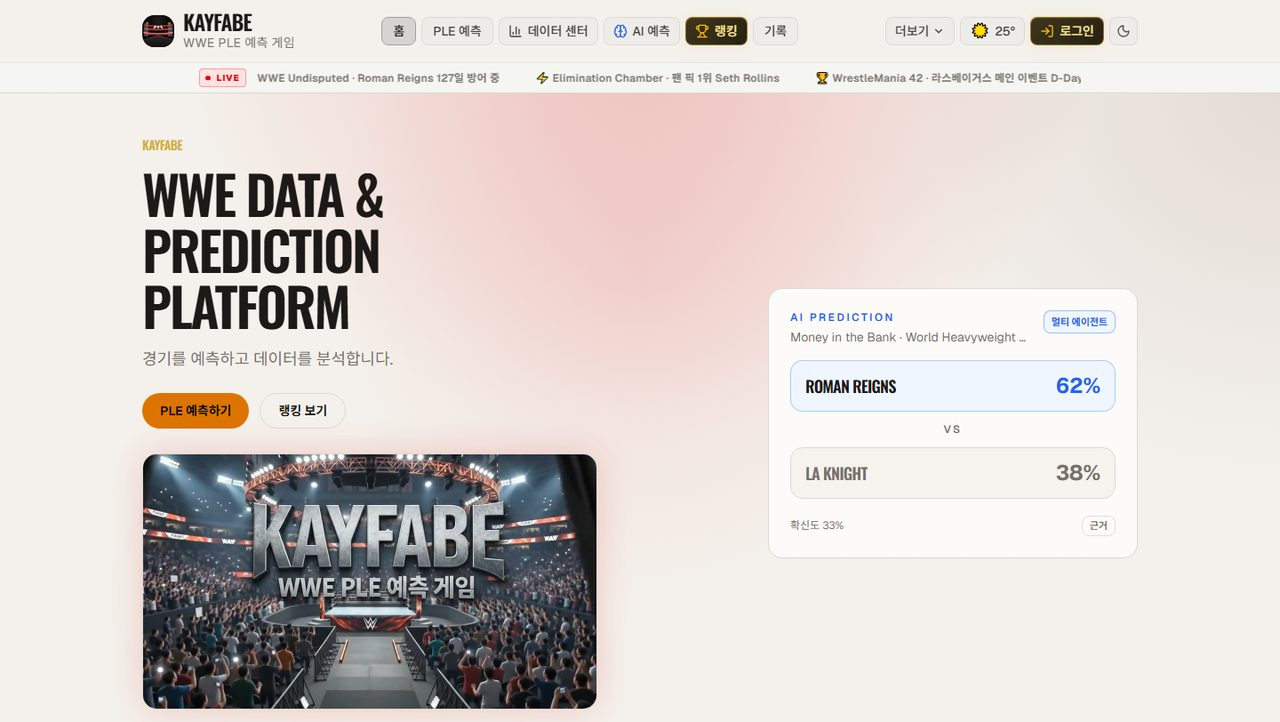
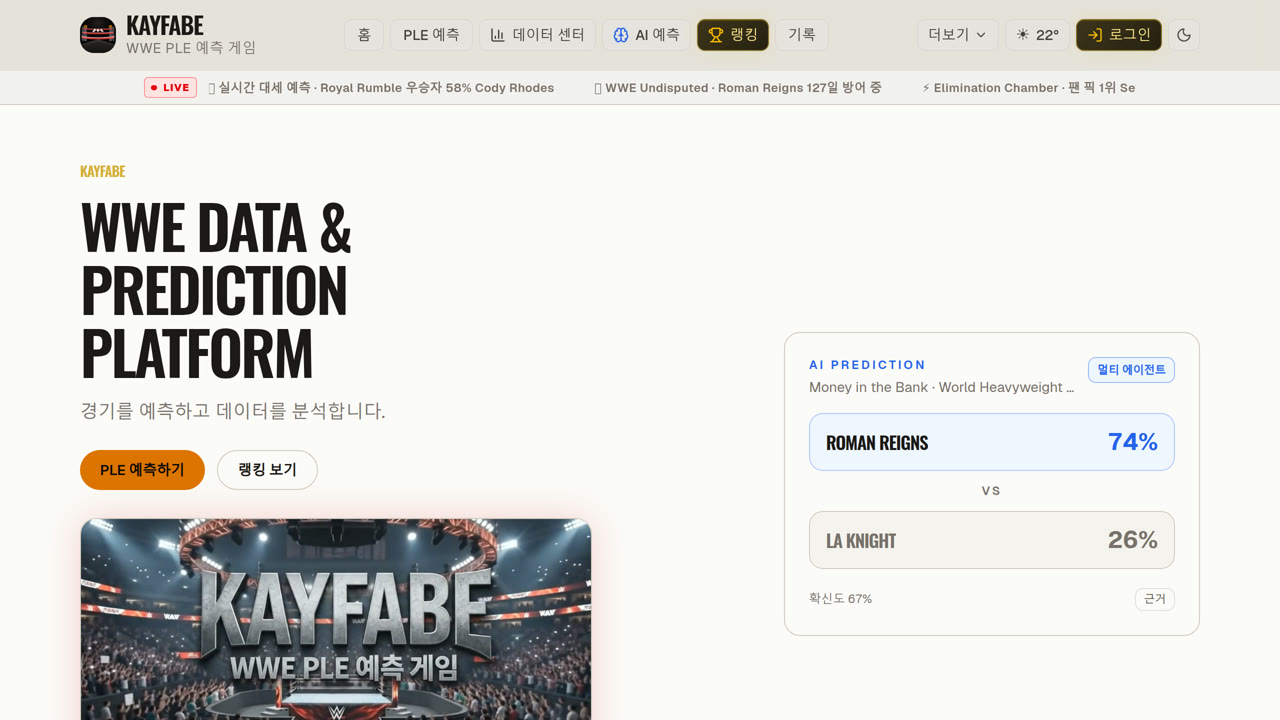
feat: 첫 화면이 이력서와 같은 문장을 말하게 한다
제목을 「만든 것을 데이터로 검증합니다」에서 「모델은 자신 있게 틀립니다」로
바꿨다. 맞는 말이었지만 무엇을 하는 사람인지도, 왜 그 일이 필요한지도
말하지 않았다 — 이력서 지원동기 첫 문단이 쓴 문장을 그대로 세우고, 바로
아래 문단이 「그래서」로 받는다. 이력서와 화면을 같이 보는 사람에게 서로
다른 사람으로 읽히면 안 된다.

검색 결과에 뜨는 설명문도 같은 문장으로 맞췄다. 전에 적혀 있던
「Wiki + LLM 개인 지식 시스템」은 저장소 내부 용어였다.

수치와 썸네일도 다시 실측해 갈았다 — API 핸들러 48 · 테스트 1,349 ·
커밋 422 · 코퍼스 문서 89/청크 1,027. 「라우트 37」은 세는 법이 달랐던
값이라(같은 방법으로 10-06 을 다시 세면 47) 라벨과 측정 방법을 함께 적었다.
빠져 있던 게이트 셋(ruff · import-linter · pre-commit)을 기술 칩에 넣었다.

diff --git a/www/app/page.tsx b/www/app/page.tsx
@@ -77,7 +77,12 @@ const STACK: StackGroup[] = [
       },
       {
         name: "pytest",
-        where: "코드가 망가졌는지 자동으로 확인하는 검사 도구입니다. 1,182건이 매번 돌아갑니다.",
+        where: "코드가 망가졌는지 자동으로 확인하는 검사 도구입니다. 1,349건이 매번 돌아갑니다.",
+      },
+      {
+        name: "ruff",
+        where:
+          "파이썬 코드의 형식과 흔한 실수를 검사하고 자동으로 맞춰 줍니다. 사람마다 다르게 쓰는 걸 막습니다.",
       },
       { name: "Uvicorn", where: "만든 서버를 실제로 띄워 두고 요청을 받게 하는 프로그램입니다." },
       { name: "uv", where: "프로젝트에 필요한 외부 코드들을 받아서 관리합니다." },
@@ -269,6 +274,16 @@ const STACK: StackGroup[] = [
         where:
           "코드를 올릴 때마다 검사와 테스트를 자동으로 돌립니다. 통과 못 하면 올라가지 않습니다.",
       },
+      {
+        name: "import-linter",
+        where:
+          "앱끼리 아무 데나 갖다 쓰지 못하게 의존 방향을 계약으로 검사합니다. 계약 4건이 걸려 있고, 어기면 커밋이 막힙니다.",
+      },
+      {
+        name: "pre-commit",
+        where:
+          "커밋하기 직전에 위 검사들을 한꺼번에 돌립니다. 하나라도 실패하면 커밋 자체가 되지 않습니다.",
+      },
     ],
   },
 ];
@@ -283,7 +298,7 @@ const PROJECTS: PortfolioProject[] = [
     hrefLabel: "흐름도 4장과 설계 결정 — 운영 사이트 링크는 그 안에 있습니다",
     image: "/projects/kayfabe-home.jpg",
     imageAlt: "KAYFABE 메인 화면 — WWE DATA & PREDICTION PLATFORM 히어로와 AI 예측 카드",
-    facts: ["라우트 37개", "테스트 1,283건", "아키텍처 계약 4", "커밋 394"],
+    facts: ["API 핸들러 48개", "테스트 1,349건", "아키텍처 계약 4", "커밋 422"],
   },
   {
     name: "SUPER-SUB",
@@ -341,25 +356,36 @@ export default function PortfolioPage() {
       </header>
 
       {/* ── 소개 ────────────────────────────────────────────────────────── */}
+      {/*
+       * 🔴 **제목이 부정문인 것은 의도다** (2026-10-08 사용자 승인). 전에는
+       * 「만든 것을 데이터로 검증합니다」였는데, 맞는 말이지만 **무엇을 하는
+       * 사람인지도, 왜 그 일이 필요한지도** 말하지 않았다. 이력서가 지원 동기
+       * 첫 문단에서 쓴 문장이 그 자리를 대신한다 — "데모는 훌륭한데 실제
+       * 업무에 넣을 수가 없습니다. 모델이 자신 있게 틀리기 때문입니다."
+       *
+       * 읽는 사람이 아는 문제를 먼저 말하고, 바로 아래 문단이 "그래서"로 받는다.
+       * 이력서와 이 화면이 **같은 문장**을 쓰는 것이 중요하다 — 둘을 같이 보는
+       * 사람에게 서로 다른 사람으로 읽히면 안 된다.
+       */}
       <section className="mx-auto w-full max-w-4xl px-4 pt-10 pb-14 sm:pt-16">
         <p className="font-sport text-sm tracking-[0.3em] text-brand-link">PORTFOLIO</p>
         <h1 className="mt-4 text-3xl font-bold leading-[1.25] text-foreground sm:text-4xl">
-          만든 것을
+          모델은
           <br />
-          데이터로 검증합니다
+          자신 있게 틀립니다
         </h1>
         <div className="mt-6 flex max-w-2xl flex-col gap-3 text-base leading-relaxed text-muted-foreground">
           <p>
-            AI를 실제 서비스에 붙이는 일을 합니다. 모델을 고르는 일보다{" "}
+            그래서 저는 그 출력을{" "}
             <strong className="font-semibold text-foreground">
-              그 출력을 믿어도 되는지를 시스템이 스스로 판정하게
-            </strong>{" "}
-            만드는 데 시간을 더 씁니다. 모델은 자신 있게 틀리기 때문입니다.
+              업무에 넣어도 되는지 판정하는 구조
+            </strong>
+            를 만듭니다. 백엔드·프론트·배포를 혼자 끝까지 끌고 간 개인 프로젝트 하나가 지금도
+            돌아갑니다.
           </p>
           <p>
-            혼자 만든 WWE 경기 예측 플랫폼은 백엔드부터 프론트, 배포까지 직접 만들었습니다. 여기서는
-            언어 모델에게 데이터를 쓸 권한을 주지 않았습니다 — 모델은 결론과 근거 구절만 주장하고,
-            반영할지는 서버가 그 인용을 원문과 대조해 판정합니다.
+            그 플랫폼에서는 언어 모델에게 데이터를 쓸 권한을 주지 않았습니다 — 모델은 결론과 근거
+            구절만 주장하고, 반영할지는 서버가 그 인용을 원문과 대조해 판정합니다.
           </p>
           <p>
             네 명이 함께한 영상 분석 프로젝트에서는 모델을 부르기 전에 입력을 검증했습니다. 전신이

diff --git a/www/lib/portfolio-cases.ts b/www/lib/portfolio-cases.ts
@@ -155,7 +155,7 @@ const KAYFABE_FLOWS: readonly Flow[] = [
             label: "지식 검색",
             kind: "store",
             detail: ["pgvector 코사인 거리", "경기당 상위 5건"],
-            measured: "코퍼스 문서 63건 · 청크 865개 (2026-09-22)",
+            measured: "코퍼스 문서 89건 · 청크 1,027개 (2026-10-08)",
           },
         ],
       },
@@ -315,7 +315,8 @@ const KAYFABE_FLOWS: readonly Flow[] = [
             label: "pgvector",
             kind: "store",
             detail: ["새 벡터 스토어를 붙이지 않았다 — 이미 돌고 있었다"],
-            measured: "문서 63건 · 청크 865개 · 상용구 오염 0% (2026-09-22)",
+            measured:
+              "문서 89건 · 청크 1,027개 (2026-10-08) · 상용구 오염 0% (2026-10-06 재수집 뒤)",
           },
         ],
       },
@@ -466,7 +467,7 @@ const KAYFABE_FLOWS: readonly Flow[] = [
               "프론트는 ESLint · TypeScript strict",
               "앱 사이 의존 방향과 레이어 순서를 계약으로 검사한다",
             ],
-            measured: "계약 4건 · 테스트 1,283건 (2026-10-06)",
+            measured: "계약 4건 · 테스트 1,349건 (2026-10-08)",
           },
         ],
         exit: {
@@ -548,12 +549,12 @@ const KAYFABE: CaseStudy = {
     "백엔드부터 프론트, 배포까지 혼자 만들었습니다. 그 과정에서 가장 많은 시간을 쓴 곳은 모델을 고르는 자리가 아니라 **모델의 출력을 어디까지 믿을지 정하는 자리**였습니다. 언어 모델에게는 데이터를 쓸 권한을 주지 않았습니다 — 모델은 결론과 근거 구절만 주장하고, 반영할지는 서버가 그 인용을 원문과 대조해 판정합니다.",
   ],
   facts: [
-    { label: "라우트", value: "37", note: "실측 2026-10-06" },
-    { label: "테스트", value: "1,283", note: "pytest 수집 기준 · 매 푸시마다 돈다" },
+    { label: "API 핸들러", value: "48", note: "apps/kayfabe 기준 · 실측 2026-10-08" },
+    { label: "테스트", value: "1,349", note: "pytest 수집 기준 · 매 푸시마다 돈다 (2026-10-08)" },
     { label: "아키텍처 계약", value: "4", note: "import-linter · 어기면 커밋이 막힌다" },
-    { label: "커밋", value: "394", note: "실측 2026-10-06" },
+    { label: "커밋", value: "422", note: "저장소 전체 · 실측 2026-10-08" },
     { label: "예측 축", value: "3", note: "서사 · 오즈 · 루머 — 둘은 모델, 하나는 코드" },
-    { label: "코퍼스 청크", value: "865", note: "문서 63건 · 2026-09-22" },
+    { label: "코퍼스 청크", value: "1,027", note: "문서 89건 · 도메인 6종 · 2026-10-08" },
   ],
   flows: KAYFABE_FLOWS,
   decisions: [
@@ -593,6 +594,7 @@ const KAYFABE: CaseStudy = {
         "Alembic",
         "Pydantic",
         "pytest",
+        "ruff",
         "Uvicorn",
         "uv",
       ],
@@ -616,6 +618,7 @@ const KAYFABE: CaseStudy = {
         "Cloudflare Tunnel",
         "GitHub Actions",
         "import-linter",
+        "pre-commit",
       ],
     },
   ],

diff --git a/www/app/layout.tsx b/www/app/layout.tsx
@@ -29,7 +29,13 @@ export const metadata: Metadata = {
     default: "정상호 — 백엔드·데이터 중심 풀스택",
     template: "%s · 정상호",
   },
-  description: "Wiki + LLM 개인 지식 시스템과 WWE 예측 플랫폼을 만듭니다.",
+  /* 포트폴리오의 설명문이다 — 제품(KAYFABE)은 `app/(kayfabe)/layout.tsx` 가
+     자기 것을 따로 들고 있어서 여기 값이 제품 페이지로 새지 않는다.
+     첫 화면 제목과 **같은 문장**을 쓴다: 검색 결과에서 읽은 한 줄과 눌러서
+     보는 화면이 다른 말을 하면 그 자체가 신뢰를 깎는다. 전에 적혀 있던
+     「Wiki + LLM 개인 지식 시스템」은 저장소 내부 용어였다. */
+  description:
+    "모델은 자신 있게 틀립니다. 그 출력을 업무에 넣어도 되는지 판정하는 구조를 만듭니다 — WWE 경기 예측 플랫폼을 혼자 만들어 운영 중입니다.",
   icons: {
     icon: [{ url: "/icon.svg", type: "image/svg+xml" }],
   },
